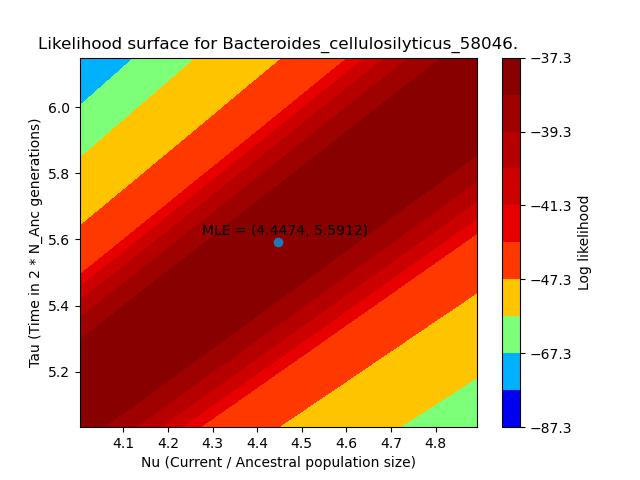
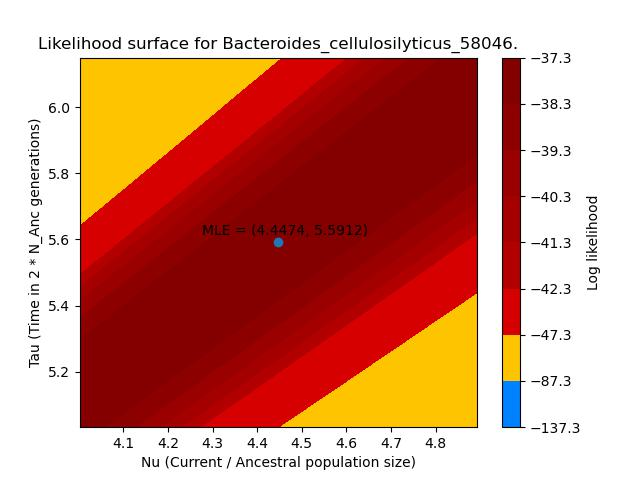
B. cell

diff --git a/Scripts/plot_likelihood.py b/Scripts/plot_likelihood.py
@@ -503,10 +503,8 @@ class PlotLikelihood():
                 ax.set_xlabel('Nu (Current / Ancestral population size)')
                 ax.set_ylabel('Tau (Time in 2 * N_Anc generations)')
                 # levels = numpy.linspace(z_min, z_max, num=21)
-                levels = [max_likelihood - 50, 
-                          max_likelihood - 40,
-                          max_likelihood - 30,
-                          max_likelihood - 20,
+                levels = [max_likelihood - 100,
+                          max_likelihood - 50, 
                           max_likelihood - 10,
                           max_likelihood - 5,
                           max_likelihood - 4,
